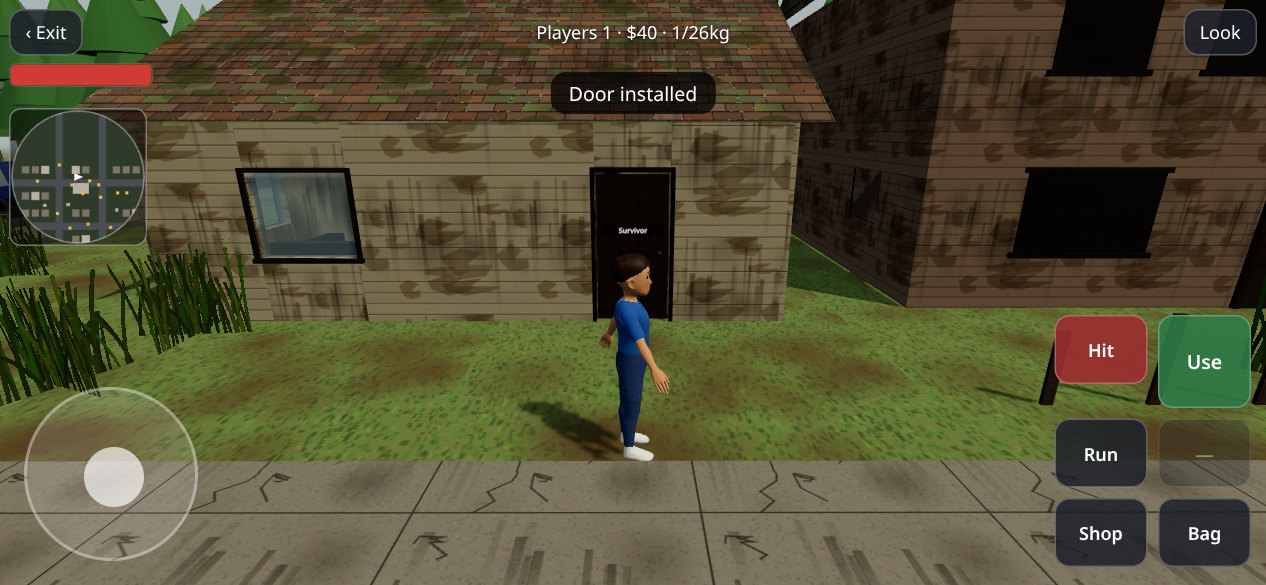
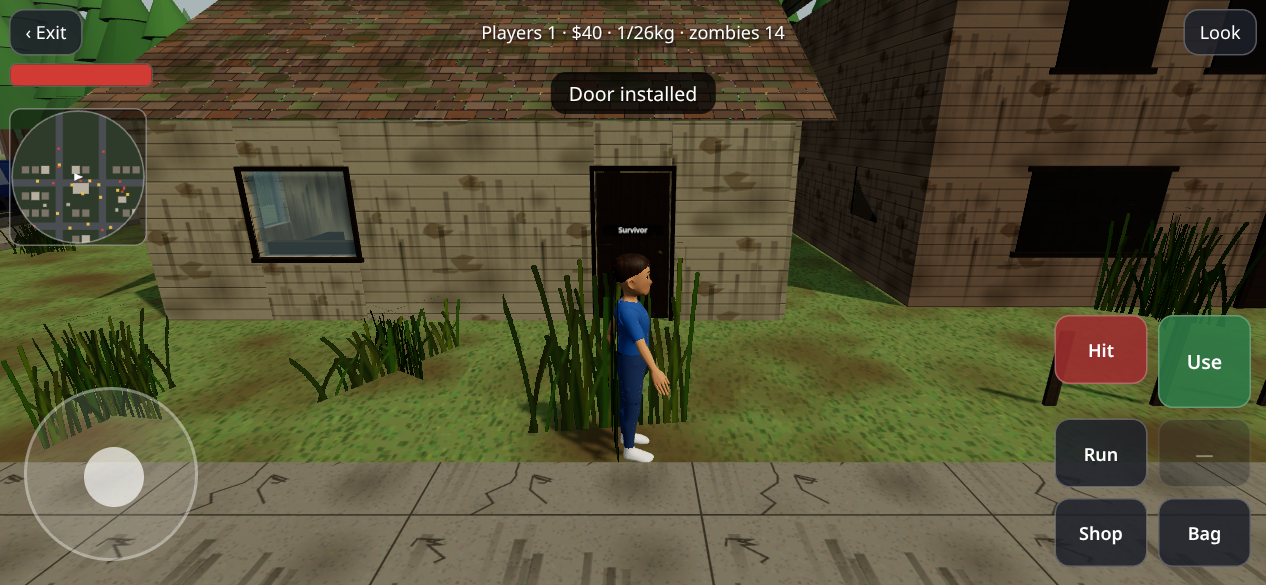
proofs: places, sync, kiosk; PROGRESS integration status

diff --git a/PROGRESS.md b/PROGRESS.md
@@ -39,3 +39,12 @@ const Z = createZombies({ scene, W, camera, getPlayers: () => [{ x, z, ry, drv, 
 Notes: zombies are simulated per client (no net sync yet); `getPlayers()[0]` must be the local player (nav flow field targets it). Audio hooks: `createZombies({onEvent})` fires `'notice'` and `'kill'`.
 - [x] step 2: town.js assembly (renderer, HUD, input, camera, interactions: doors/loot/cars/shop, net evt), ui.js, cars.js draft; entry.js now enters the town. Smoke proof docs/mp-town-proof/smoke_start.png (844x390)
 - [x] step 3: tested in 844x390 headless: house doorway + shop door purchase + door open, interior (roof lifts), loot panel, car enter/drive/fuel gauge/out of fuel/refuel. Proofs docs/mp-town-proof/{house,loot,car}_*.png (headless software GL runs ~2 fps, so holds/timers are scaled in tests)
+
+## Integration status (town worker, final pass)
+- [x] Merged `feat/mp-town-props` (637258e) and wired it in `town.js`: `addGas`+`addLoot` as build hooks, `gasActions` (on foot and while in the car), `createZombies` (bodies from `BODIES`, `onHitPlayer`, `onEvent` -> story-game AudioSys groan/squelch, door and swing sounds), `createCars` (sets `W.cars`/`W.carPush`), `updateLoot`. Free fuel at the pumps (`gas.PRICE = 0`).
+- [x] Perf: zombie skinned meshes are frustum-culled, shadows only within 22 m, corpses hidden past 45 m. Still heavy in the worst spot (spawn street with bodies: ~750k tris headless before cull tuning; see flaws).
+- [x] Kenney car tint made stronger (palette multiply); cars show red/green/blue/dark variants.
+- [x] Docs: `docs/multiplayer.md` map line updated (25 houses -> 50 houses + 50 house items; doors are a shop item).
+- Proofs (844x390): `docs/mp-town-proof/` zombie_*.png (notice, chase, melee kill, bodies stay), place_*.png (store, gas forecourt/kiosk, pump refuel, streets), sync_*.png + log (two clients: door install/open, loot, car), house_*.png (retaken), cars_colors.png.
+- Measured: wiped all zombies -> 3 spawned back at road ends in 45 s (headless runs ~0.5x game speed); 9 edge spawns checked, 0 on-screen/inside fog (no pop-in).
+- Still owed: 50 houses (grow `CFG`) + 50 house customization items; zombies are simulated per client (not synced); no sound for car engine/pumps.
